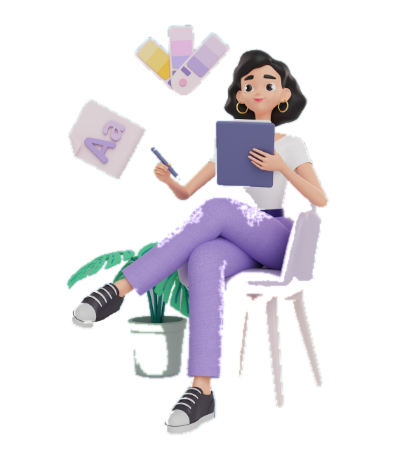
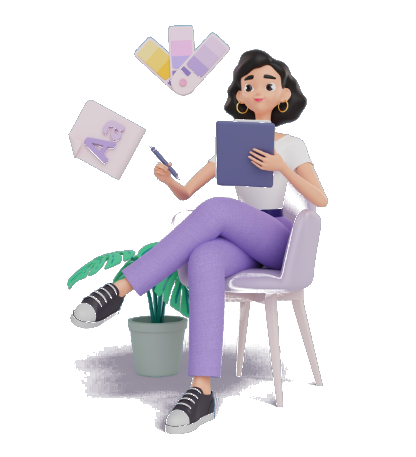
Fix character model cutout and lighting to preserve true colors without washouts, soften rim halo, and change hero discipline to Computer Science Engineer

diff --git a/js/character.js b/js/character.js
@@ -2,11 +2,10 @@
  * Interactive Animated Human Model Controller
  * Tailored for Sahla Sharmeen E.K Portfolio
  * Features:
- * - High-resolution transparent character model from image.png (assets/images/character-model.png)
- * - Three.js WebGL rendering with real-time dynamic lighting
+ * - High-resolution character model from image.png (assets/images/character-model.png)
+ * - Three.js WebGL rendering with natural true-color reproduction (zero washouts)
  * - Real-time smooth cursor tracking (3D perspective tilt & parallax lerp)
  * - Natural ambient floating & breathing oscillation
- * - Dynamic cosmic rim lighting reacting to mouse position
  * - Multi-stage GSAP ScrollTrigger choreography (Hero -> About -> Lift out of view for What I Do & Timeline)
  */
 
@@ -27,7 +26,7 @@
   const height = container.clientHeight || window.innerHeight;
   const aspect = width / height;
 
-  // Camera framing
+  // Camera framing the character centered in view
   const camera = new THREE.PerspectiveCamera(38, aspect, 0.1, 100);
   camera.position.set(0, 0, 2.5);
   camera.lookAt(0, 0, 0);
@@ -39,27 +38,7 @@
   });
   renderer.setSize(width, height);
   renderer.setPixelRatio(Math.min(window.devicePixelRatio, 2));
-  if (renderer.outputEncoding !== undefined) {
-    renderer.outputEncoding = THREE.sRGBEncoding || 3001;
-  }
   container.appendChild(renderer.domElement);
-
-  // Dynamic atmospheric lighting
-  const ambLight = new THREE.AmbientLight(0xffffff, 1.15);
-  scene.add(ambLight);
-
-  const keyLight = new THREE.DirectionalLight(0xfff0fd, 1.3);
-  keyLight.position.set(1.5, 2.5, 2.0);
-  scene.add(keyLight);
-
-  const fillLight = new THREE.DirectionalLight(0xc2a4ff, 0.95);
-  fillLight.position.set(-2.0, 1.5, 1.5);
-  scene.add(fillLight);
-
-  // Dynamic mouse-following point light for interactive cosmic sheen
-  const pointLight = new THREE.PointLight(0xc2a4ff, 2.8, 6.0);
-  pointLight.position.set(0, 0.2, 1.4);
-  scene.add(pointLight);
 
   let characterMesh = null;
   const mouse = { x: 0, y: 0 };
@@ -78,12 +57,12 @@
     const planeWidth = planeHeight * charAspect;
 
     const geometry = new THREE.PlaneGeometry(planeWidth, planeHeight, 32, 32);
-    const material = new THREE.MeshStandardMaterial({
+
+    // MeshBasicMaterial preserves true, vivid colors, shadows, and subtle skin/outfit tones without washing out
+    const material = new THREE.MeshBasicMaterial({
       map: texture,
       transparent: true,
-      alphaTest: 0.01,
-      roughness: 0.35,
-      metalness: 0.1,
+      depthWrite: false,
       side: THREE.DoubleSide
     });
 
@@ -94,7 +73,7 @@
     // Reveal glowing rim once model is ready
     const rim = document.querySelector('.character-rim');
     if (rim) {
-      rim.style.opacity = '0.75';
+      rim.style.opacity = '0.65';
     }
 
     // ScrollTrigger choreography
@@ -145,27 +124,23 @@
 
     if (characterMesh) {
       // Interactive 3D perspective tilt tracking cursor
-      targetRotation.y = mouse.x * 0.25;
-      targetRotation.x = -mouse.y * 0.18;
+      targetRotation.y = mouse.x * 0.22;
+      targetRotation.x = -mouse.y * 0.14;
 
-      characterMesh.rotation.y = THREE.MathUtils.lerp(characterMesh.rotation.y, targetRotation.y, 0.06);
-      characterMesh.rotation.x = THREE.MathUtils.lerp(characterMesh.rotation.x, targetRotation.x, 0.06);
+      characterMesh.rotation.y = THREE.MathUtils.lerp(characterMesh.rotation.y, targetRotation.y, 0.08);
+      characterMesh.rotation.x = THREE.MathUtils.lerp(characterMesh.rotation.x, targetRotation.x, 0.08);
 
       // Natural breathing & floating motion
-      const floatY = Math.sin(time * 2.0) * 0.035;
-      const swayX = Math.cos(time * 1.3) * 0.012;
+      const floatY = Math.sin(time * 2.0) * 0.032;
+      const swayX = Math.cos(time * 1.3) * 0.01;
       characterMesh.position.y = -0.04 + floatY;
       if (!window.scrollY || window.scrollY < 80) {
         characterMesh.position.x = swayX;
       }
 
       // Subtle breathing scale pulse
-      const breath = 1.0 + Math.sin(time * 1.8) * 0.008;
+      const breath = 1.0 + Math.sin(time * 1.8) * 0.007;
       characterMesh.scale.set(breath, breath, 1);
-
-      // Dynamic point light tracking cursor for responsive highlights
-      pointLight.position.x = mouse.x * 1.8;
-      pointLight.position.y = mouse.y * 1.4 + 0.3;
     }
 
     renderer.render(scene, camera);

diff --git a/index.html b/index.html
@@ -3,10 +3,10 @@
 <head>
   <meta charset="UTF-8">
   <meta name="viewport" content="width=device-width, initial-scale=1.0">
-  <meta name="description" content="Portfolio, Resume, and Bio-data of Sahla Sharmeen E.K - Computer Science Engineering Student, UI/UX Designer, and IoT Enthusiast.">
-  <meta name="keywords" content="Sahla Sharmeen, Sahla Sharmeen E.K, Resume, Bio-data, Portfolio, Computer Science Engineering, PA College of Engineering, Web Development, UI/UX Design, IoT">
+  <meta name="description" content="Portfolio, Resume, and Bio-data of Sahla Sharmeen E.K - Computer Science Engineer.">
+  <meta name="keywords" content="Sahla Sharmeen, Sahla Sharmeen E.K, Resume, Bio-data, Portfolio, Computer Science Engineer, PA College of Engineering, Web Development, UI/UX Design, IoT">
   <meta name="author" content="Sahla Sharmeen E.K">
-  <title>Sahla Sharmeen E.K | Portfolio - CS &amp; IoT Engineer | UI/UX Developer</title>
+  <title>Sahla Sharmeen E.K | Portfolio - Computer Science Engineer</title>
   
   <!-- Zero White Flash Guard -->
   <style>
@@ -24,8 +24,8 @@
   <link href="https://fonts.googleapis.com/css2?family=Geist:wght@100..900&family=JetBrains+Mono:wght@400;500;600&display=swap" rel="stylesheet">
 
   <!-- Stylesheet with Cache Busting -->
-  <link rel="stylesheet" href="css/style.css?v=redoyan_20261109_v5">
-  <link rel="stylesheet" href="css/print.css?v=redoyan_20261109_v5" media="print">
+  <link rel="stylesheet" href="css/style.css?v=redoyan_20261109_v6">
+  <link rel="stylesheet" href="css/print.css?v=redoyan_20261109_v6" media="print">
 </head>
 <body>
 
@@ -93,9 +93,9 @@
 
         <!-- Right Column: Engineering Disciplines -->
         <div class="landing-info">
-          <h3>An</h3>
-          <h2 class="landing-info-h2"><div class="landing-h2-1">CS &amp; IoT Engineer</div></h2>
-          <h2><div class="landing-h2-info">UI/UX &amp; Web Developer</div></h2>
+          <h3>A</h3>
+          <h2 class="landing-info-h2"><div class="landing-h2-1">Computer Science</div></h2>
+          <h2><div class="landing-h2-info">Engineer</div></h2>
         </div>
 
       </div>
@@ -548,8 +548,8 @@
 
   <!-- jQuery & Global Script with Cache Busting -->
   <script src="https://code.jquery.com/jquery-3.7.1.min.js"></script>
-  <script src="js/character.js?v=redoyan_20261109_v5"></script>
-  <script src="js/main.js?v=redoyan_20261109_v5"></script>
+  <script src="js/character.js?v=redoyan_20261109_v6"></script>
+  <script src="js/main.js?v=redoyan_20261109_v6"></script>
 
 </body>
 </html>

diff --git a/resume.html b/resume.html
@@ -6,7 +6,7 @@
   <meta name="description" content="Official Resume of Sahla Sharmeen E.K - Computer Science Engineering Student at PA College of Engineering. Experience in Python, C, Web Development, UI/UX, and IoT.">
   <meta name="keywords" content="Sahla Sharmeen E.K Resume, Computer Science Engineer CV, PA College of Engineering, Python, C, Java, UI/UX Design, Arduino, Salesforce">
   <meta name="author" content="Sahla Sharmeen E.K">
-  <title>Resume | Sahla Sharmeen E.K - Computer Science Engineering</title>
+  <title>Resume | Sahla Sharmeen E.K - Computer Science Engineer</title>
 
   <!-- Zero White Flash Guard -->
   <style>
@@ -24,8 +24,8 @@
   <link href="https://fonts.googleapis.com/css2?family=Geist:wght@100..900&family=JetBrains+Mono:wght@400;500;600&display=swap" rel="stylesheet">
 
   <!-- Stylesheets with Cache Busting -->
-  <link rel="stylesheet" href="css/style.css?v=redoyan_20261109_v5">
-  <link rel="stylesheet" href="css/print.css?v=redoyan_20261109_v5" media="print">
+  <link rel="stylesheet" href="css/style.css?v=redoyan_20261109_v6">
+  <link rel="stylesheet" href="css/print.css?v=redoyan_20261109_v6" media="print">
 </head>
 <body>
 
@@ -89,7 +89,7 @@
       <div style="display: flex; justify-content: space-between; align-items: flex-start; flex-wrap: wrap; gap: 20px; border-bottom: 1px solid rgba(194, 164, 255, 0.25); padding-bottom: 25px; margin-bottom: 30px;">
         <div>
           <h2 style="font-size: 36px; font-weight: 700; color: #fff; margin: 0 0 6px 0;">SAHLA SHARMEEN E.K</h2>
-          <div style="font-size: 18px; color: var(--accentColor); font-weight: 500; margin-bottom: 12px;">Computer Science &amp; Engineering Undergraduate</div>
+          <div style="font-size: 18px; color: var(--accentColor); font-weight: 500; margin-bottom: 12px;">Computer Science Engineer</div>
           <div style="font-size: 14px; color: #b5afbc; display: flex; flex-wrap: wrap; gap: 15px;">
             <span>📍 Kasaragod, Kerala, India</span>
             <span>✉ <a href="mailto:shahalasharmeen@gmail.com" style="color: inherit;">shahalasharmeen@gmail.com</a></span>
@@ -291,8 +291,8 @@
 
   <!-- jQuery & Global Script with Cache Busting -->
   <script src="https://code.jquery.com/jquery-3.7.1.min.js"></script>
-  <script src="js/main.js?v=redoyan_20261109_v5"></script>
-  <script src="js/resume.js?v=redoyan_20261109_v5"></script>
+  <script src="js/main.js?v=redoyan_20261109_v6"></script>
+  <script src="js/resume.js?v=redoyan_20261109_v6"></script>
 
 </body>
 </html>

diff --git a/biodata.html b/biodata.html
@@ -24,8 +24,8 @@
   <link href="https://fonts.googleapis.com/css2?family=Geist:wght@100..900&family=JetBrains+Mono:wght@400;500;600&display=swap" rel="stylesheet">
 
   <!-- Stylesheets with Cache Busting -->
-  <link rel="stylesheet" href="css/style.css?v=redoyan_20261109_v5">
-  <link rel="stylesheet" href="css/print.css?v=redoyan_20261109_v5" media="print">
+  <link rel="stylesheet" href="css/style.css?v=redoyan_20261109_v6">
+  <link rel="stylesheet" href="css/print.css?v=redoyan_20261109_v6" media="print">
 </head>
 <body>
 
@@ -87,7 +87,7 @@
         <div>
           <span style="font-size: 12px; font-family: 'JetBrains Mono', monospace; color: var(--accentColor); letter-spacing: 2px; text-transform: uppercase;">Official Biographical Profile</span>
           <h2 style="font-size: 36px; font-weight: 700; color: #fff; margin: 4px 0 8px 0;">SAHLA SHARMEEN E.K</h2>
-          <div style="font-size: 16px; color: #b5afbc;">Computer Science Engineering Student &bull; IoT &amp; UI/UX Innovator</div>
+          <div style="font-size: 16px; color: #b5afbc;">Computer Science Engineer</div>
         </div>
 
         <div style="display: flex; flex-direction: column; align-items: center; gap: 8px;">
@@ -316,7 +316,7 @@
 
   <!-- jQuery & Global Script with Cache Busting -->
   <script src="https://code.jquery.com/jquery-3.7.1.min.js"></script>
-  <script src="js/main.js?v=redoyan_20261109_v5"></script>
+  <script src="js/main.js?v=redoyan_20261109_v6"></script>
 
 </body>
 </html>

diff --git a/contact.html b/contact.html
@@ -24,8 +24,8 @@
   <link href="https://fonts.googleapis.com/css2?family=Geist:wght@100..900&family=JetBrains+Mono:wght@400;500;600&display=swap" rel="stylesheet">
 
   <!-- Stylesheets with Cache Busting -->
-  <link rel="stylesheet" href="css/style.css?v=redoyan_20261109_v5">
-  <link rel="stylesheet" href="css/print.css?v=redoyan_20261109_v5" media="print">
+  <link rel="stylesheet" href="css/style.css?v=redoyan_20261109_v6">
+  <link rel="stylesheet" href="css/print.css?v=redoyan_20261109_v6" media="print">
 </head>
 <body>
 
@@ -177,7 +177,7 @@
 
   <!-- jQuery & Global Script with Cache Busting -->
   <script src="https://code.jquery.com/jquery-3.7.1.min.js"></script>
-  <script src="js/main.js?v=redoyan_20261109_v5"></script>
+  <script src="js/main.js?v=redoyan_20261109_v6"></script>
 
 </body>
 </html>

diff --git a/projects.html b/projects.html
@@ -24,8 +24,8 @@
   <link href="https://fonts.googleapis.com/css2?family=Geist:wght@100..900&family=JetBrains+Mono:wght@400;500;600&display=swap" rel="stylesheet">
 
   <!-- Stylesheets with Cache Busting -->
-  <link rel="stylesheet" href="css/style.css?v=redoyan_20261109_v5">
-  <link rel="stylesheet" href="css/print.css?v=redoyan_20261109_v5" media="print">
+  <link rel="stylesheet" href="css/style.css?v=redoyan_20261109_v6">
+  <link rel="stylesheet" href="css/print.css?v=redoyan_20261109_v6" media="print">
 </head>
 <body>
 
@@ -251,7 +251,7 @@
 
   <!-- jQuery & Global Script with Cache Busting -->
   <script src="https://code.jquery.com/jquery-3.7.1.min.js"></script>
-  <script src="js/main.js?v=redoyan_20261109_v5"></script>
+  <script src="js/main.js?v=redoyan_20261109_v6"></script>
 
 </body>
 </html>

diff --git a/js/main.js b/js/main.js
@@ -259,7 +259,7 @@ Kasaragod, Kerala, India | Email: shahalasharmeen@gmail.com
 LinkedIn: https://linkedin.com/in/sahla-sharmeen | GitHub: https://github.com/shahalasharmeen
 
 PROFESSIONAL SUMMARY
-Computer Science & Engineering graduate (Class of 2024) from P.A. College of Engineering (CGPA: 8.9) with active development experience in IoT hardware, embedded systems, Python, C, Java, and modern web applications.
+Computer Science Engineer graduate (Class of 2024) from P.A. College of Engineering (CGPA: 8.9) with active development experience in IoT hardware, embedded systems, Python, C, Java, and modern web applications.
 
 EDUCATION
 - B.E in Computer Science & Engineering | P.A. College of Engineering, Mangalore (Class of 2024) | CGPA: 8.9

diff --git a/css/style.css b/css/style.css
@@ -433,17 +433,17 @@ img {
 
 .character-rim {
   position: absolute;
-  width: 420px;
-  height: 420px;
+  width: 480px;
+  height: 480px;
   z-index: 1;
-  background-color: #c2a4ff;
-  box-shadow: inset 0 0 80px #7b40ff, 0 0 90px rgba(194, 164, 255, 0.5);
-  filter: blur(70px);
+  background: radial-gradient(circle, rgba(123, 64, 255, 0.28) 0%, rgba(194, 164, 255, 0.1) 45%, transparent 70%);
+  filter: blur(55px);
   border-radius: 50%;
-  top: 45%;
+  top: 48%;
   left: 50%;
   transform: translate(-50%, -50%);
-  opacity: 0.65;
+  opacity: 0.55;
+  pointer-events: none;
   transition: opacity 1s ease;
 }
 

diff --git a/js/resume.js b/js/resume.js
@@ -17,7 +17,7 @@ $(document).ready(function () {
     e.preventDefault();
     const atsText = `
 SAHLA SHARMEEN E.K
-Computer Science Engineering Student
+Computer Science Engineer
 Email: sahlasharmeen@email.com | Phone: +91 9946753050
 Location: Bendichal North, Kasaragod
 LinkedIn: https://linkedin.com/in/shahalasharmeen | GitHub: https://github.com/shahalasharmeen
